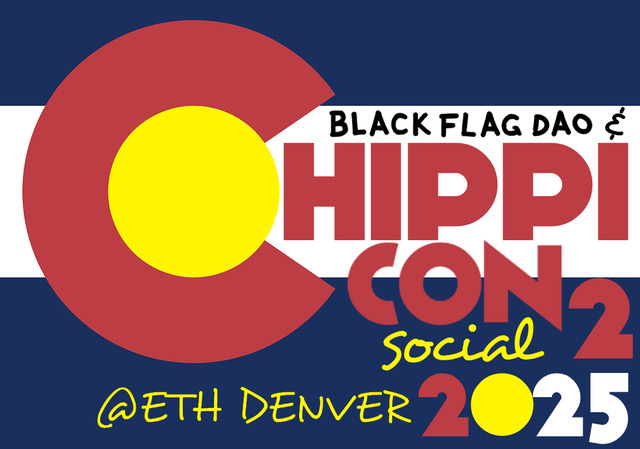
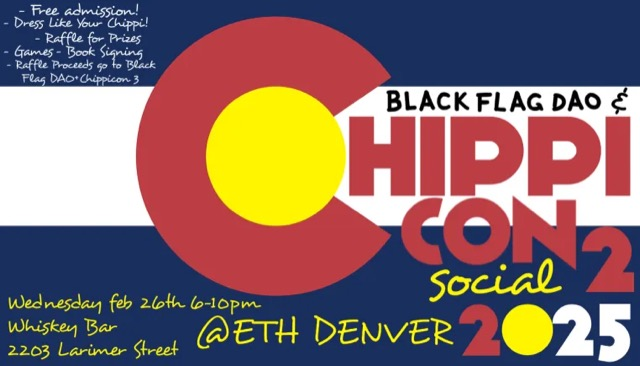
updated cover photo and added useful details page

diff --git a/src/Useful.js b/src/Useful.js
@@ -1,44 +1,67 @@
 import React from "react";
 import "./App.css";
 import NavBar from "./NavBar";
-import details from "./img/details.png";
-import raffle from "./img/raffle.png";
-
 import Footer from "./Footer";
+import whiskeybar from "./img/whiskeybar.jpg";
 
 export default function UsefulDetails() {
   return (
     <div className="Useful">
       <NavBar />
-      <div className="next-year">
-        Stay tuned for ChippiCon 2024 - Location TBD
+      <div class="container text-center"></div>
+      <div class="row justify-content-center">
+        <div class="col-6">
+          <img src={whiskeybar} alt="chippi crowd" className="whiskey-bar" />
+
+          <ul className="location-info text-center">
+            <li>2203 Larimer Street, Denver, CO</li>
+            <li>Wednesday, Feb. 26, 2025 6-10 pm</li>
+          </ul>
+        </div>
+        <div class="col-6">
+          <ul className="info-list">
+            <li>🆓 Free Admission!</li>
+            <li>
+              🔥 Dress like your Chippi! Show up in your best Chippi-inspired
+              outfit and rep your unique style.
+            </li>
+            <li>🎟 Raffle for prizes!</li>
+            <ul>
+              <li>$10 per ticket, or 5 for $40</li>
+              <li>
+                Pay with cash or crypto (Optimism, Arbitrum, Gnosis, Ethereum,
+                Polygon).
+              </li>
+              <li>All proceeds go to 🏴 Black Flag DAO + Chippicon 3</li>
+            </ul>
+
+            <li>
+              📚 Grab a copy of What is Chippi? for $20 and get it 🖊 signed by
+              the illustrator!
+            </li>
+            <li>🖼 Collect exclusive Chippi POAPs & stickers</li>
+            <li>🎲 Play Chippi Bingo for a shot at some epic prizes!</li>
+          </ul>
+        </div>
       </div>
-
-      <Footer />
-
       <div className="details-div">
-        <img src={details} alt="party details" className="details-image" />
-        <img
-          src={raffle}
-          alt="raffle information"
-          className="raffle-image mt-5"
-        />
         <ul className="faq-list mt-3">
           <span class="faq">FAQ</span>
-          <li> Do I need a ticket to attend Chippicon?</li> Chippicon 2023 is a
+          <li> Do I need a ticket to attend Chippicon?</li> Chippicon 2025 is a
           free event. No tickets are required.
-          <li>Do I need to RSVP to attend Chippicon 2023?</li> No RSVP is
-          required. Chippicon 2023 is an open event.
+          <li>Do I need to RSVP to attend Chippicon 2025?</li> No RSVP is
+          required. Chippicon 2025 is an open event.
           <li>What should I bring to to the event?</li> Wear your Chippi costume
-          (not required but STRONGLY encouraged) and cash for food/drink.
+          (not required but STRONGLY encouraged) and cash for drinks.
           <li>How can I participate in the raffle?</li> Payment options for the
-          Chippicon 2023 raffle include cryptocurrency (ETH on Optimism) or
-          Venmo.
+          Chippicon 2025 raffle include cash or crypto (Optimism, Arbitrum,
+          Gnosis, Ethereum, Polygon).
           <li>Can I bring my non-Chippi holder friends?</li> Yes! All are
           welcome who may be interested in joining or hanging with the Chippi
           community.
         </ul>
       </div>
+      <Footer />
     </div>
   );
 }

diff --git a/src/NavBar.js b/src/NavBar.js
@@ -25,6 +25,14 @@ export default function NavBar() {
         <div class="collapse navbar-collapse" id="navbarSupportedContent">
           <ul class="navbar-nav me-auto mb-2 mb-lg-0">
             <li class="nav-item">
+              <a class="nav-link " href="/#">
+                {" "}
+                <Link to="/useful">
+                  <span className="navbar-links">Useful Details</span>
+                </Link>
+              </a>
+            </li>
+            <li class="nav-item">
               <a
                 class="nav-link navbar-links"
                 href="https://linktr.ee/chippinft"
@@ -54,27 +62,11 @@ export default function NavBar() {
                 What Is Chippi? Book
               </a>
             </li>
-            <li class="nav-item">
-              <a class="nav-link " href="/#">
-                {" "}
-                <Link to="/useful">
-                  <span className="navbar-links d-none">Useful Details</span>
-                </Link>
-              </a>
-            </li>
 
             <li class="nav-item">
               <a class="nav-link " href="/#">
                 <Link to="/useless">
                   <span className="navbar-links d-none">Useless Details</span>
-                </Link>
-              </a>
-            </li>
-
-            <li class="d-none nav-item">
-              <a class="nav-link " href="/#">
-                <Link to="/secret">
-                  <span className=" navbar-links-secret">Top Secret Lair</span>
                 </Link>
               </a>
             </li>

diff --git a/src/App.css b/src/App.css
@@ -79,14 +79,13 @@ a:link {
 .details-div {
   text-align: center;
 }
-.details-image {
+.whiskey-bar {
   max-height: auto;
-  max-width: 90%;
+  max-width: 100%;
 }
 
-.raffle-image {
-  max-height: auto;
-  max-width: 75%;
+.location-info {
+  list-style-type: none;
 }
 
 .faq-list {
